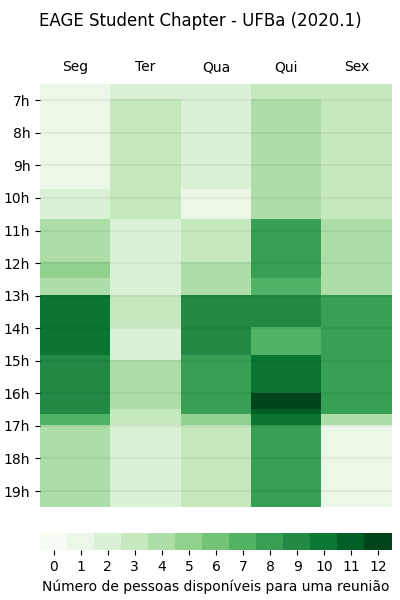
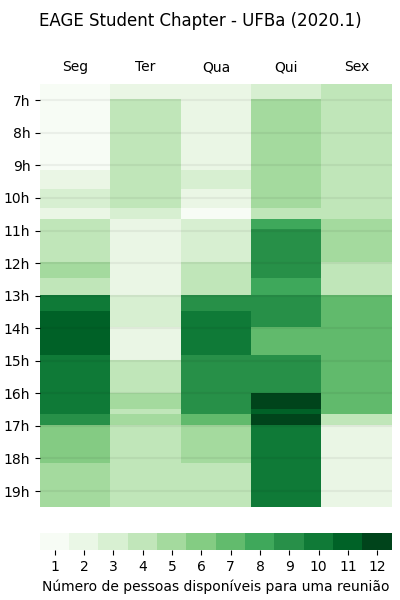
update

diff --git a/example_custom.py b/example_custom.py
@@ -13,24 +13,25 @@ possiveis_nomes_dias = [['seg', 'segunda', 'segunda-feira',],
 labels_para_dias = ['Seg','Ter','Qua','Qui','Sex','Sáb','Dom']
 
 horarios = {
+    "Alber":       "13-16:40 nenhum seg 14:50- seg",
+    "Anderson":    "nenhum nenhum nenhum 5-17",
+    "André":       "16:40... seg seg seg seg seg seg",
+    "Annie":       "16:40- nenhum nenhum 10h40-",
+    "Gutembergue": "14:50-17 nenhum seg 11-13 seg",
+    "Isaac":       "10:40- seg seg seg seg",
+    "Laian":       "nenhum nenhum nenhum 16-16:40",
+    "Leticia":     "12-16:40 nenhum seg 16:40- seg",
+    "Lorena":      "13-14:50 -10:40 seg",
+    "Marcos":      "(9h10-10h20 13h30-18h10) (7-10:20 + 16h-) mon tue -12 - -",
+    "Mari":        "10:40- 7-14h seg ter -16h40",
+    "Maria M":     "nenhum 15h-16:30 nenhum 10:40-16:30",
+    "Maria":       "13-17 seg seg seg seg seg seg",
+    "Milton":      "9:45-12:30 nenhum -9:45 10h40-12:30",
     "Nilo":        "nenhum 15... nenhum 13...",
     "Rada":        "13-17 ...10h40 nenhum ter -12",
-    "Maria":       "13-17 seg seg seg seg seg seg",
-    "André":       "nenhum nenhum nenhum nenhum 13-17",
-    "Lorena":      "13-14:50 -10:40 seg",
-    "Laian":       "nenhum nenhum nenhum 16-16:40",
-    "Anderson":    "nenhum nenhum nenhum 5-17",
-    "Vinicius":    "13- nenhum seg (-14 16-)",
-    "Mari":        "10:40- 7-14h seg ter -16h40",
-    "Leticia":     "12-16:40 nenhum seg 14:50- seg",
-    "Gutembergue": "14:50-17:00 nenhum seg nenhum seg",
-    "Alber":       "13-16:40 nenhum seg 14:50- seg",
-    "Isaac":       "10:40- seg seg seg seg",
     "Rômulo":      "13-16h40 nenhum seg 14:50- seg",
-    "Annie":       "16:40- nenhum nenhum 10h40-",
-    "Maria M":     "nenhum 15h-16:30 nenhum 10:40-16:30",
     "Vasco":       "-14:50 nenhum seg 10h40- seg",
-    "Milton":      "9:45-12:30 nenhum -9:45 10h40-12:30",
+    "Vinicius":    "13- nenhum seg (-14 16-)",
     }
 
 plot_free_schedule(horarios,

diff --git a/example_input_file.py b/example_input_file.py
@@ -15,4 +15,4 @@ plot_free_schedule(people_free_schedule,
                    cmap='PuRd',
                    format24=True,
                    hourhlines=True,
-                   filename='example/ardur.png')
+                   filename='example/rpg.png')
